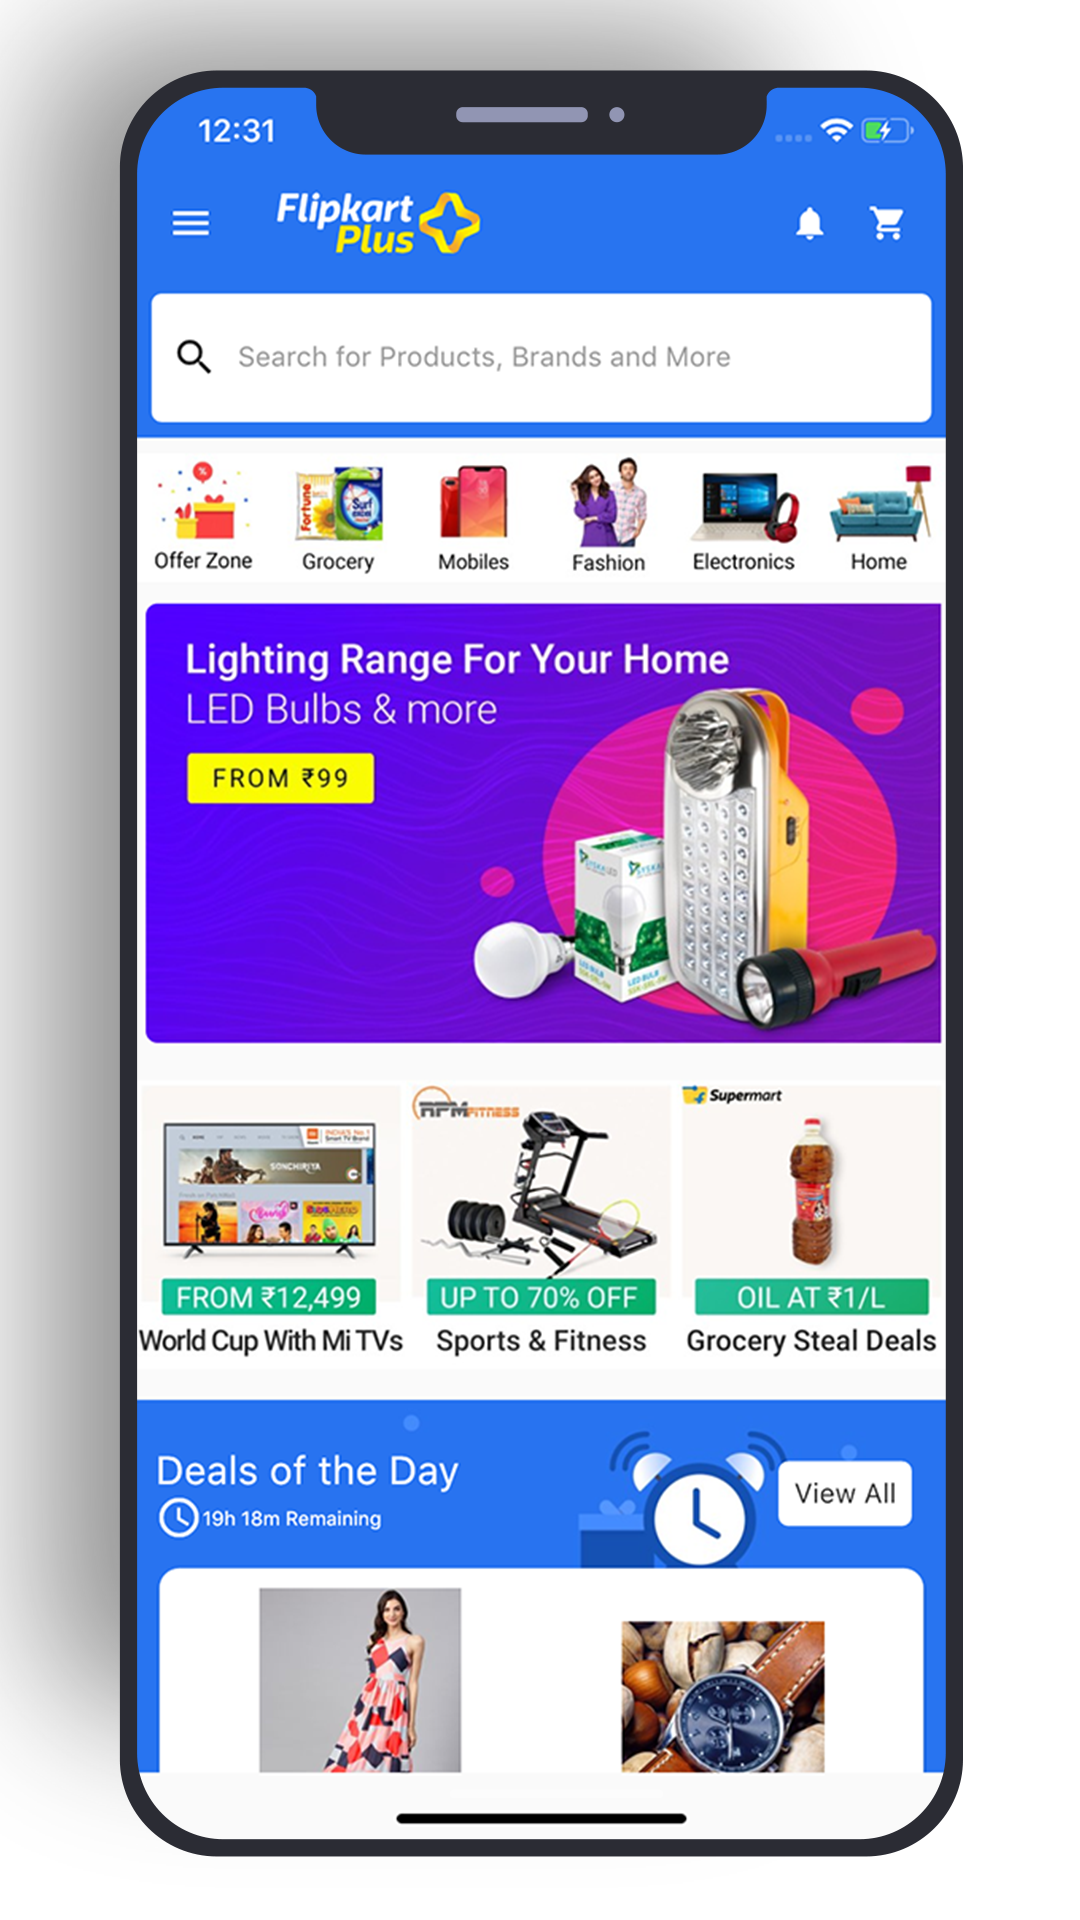
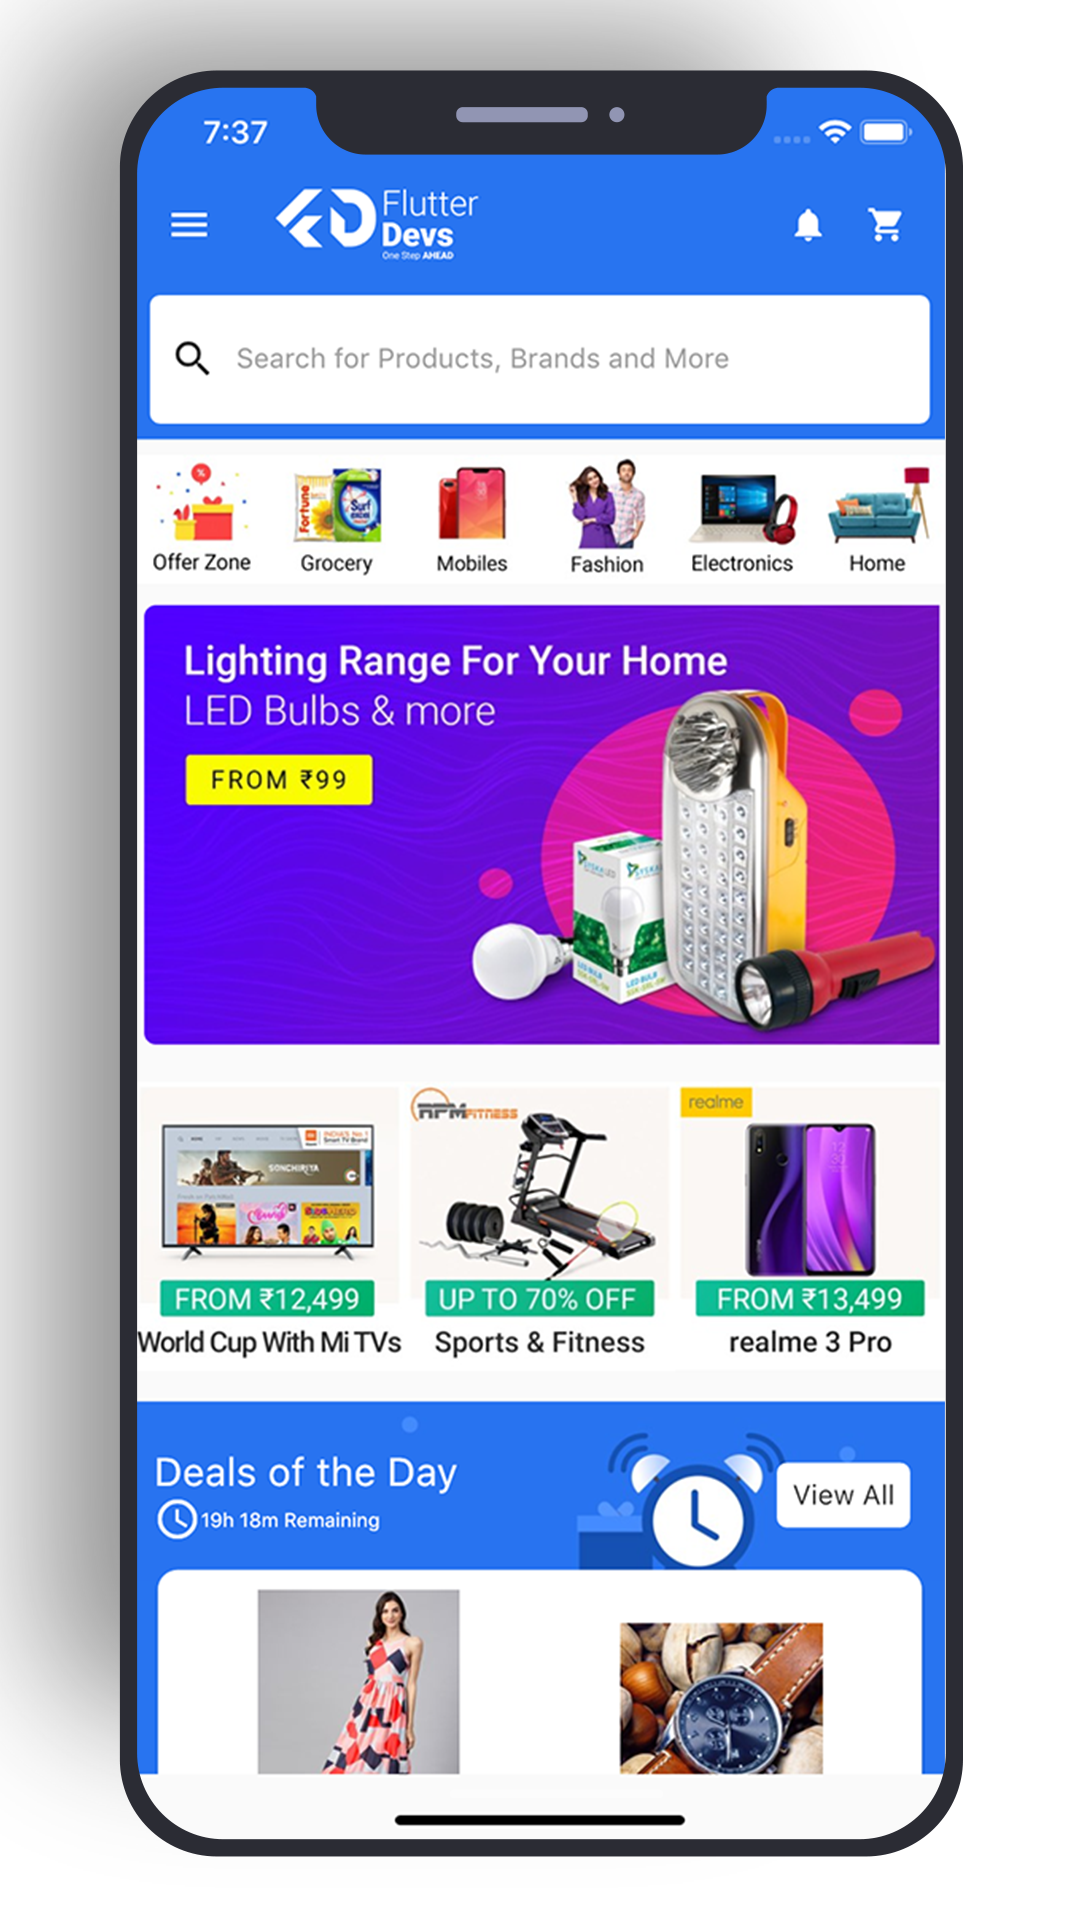
Updated packages

diff --git a/lib/src/ui/widgets/Drawerfile.dart b/lib/src/ui/widgets/Drawerfile.dart
@@ -18,7 +18,7 @@ class _DrawerfileState extends State<Drawerfile> {
 
   addDrawerItem() {
     drawerItemModel = List<DrawerItemModel>();
-    drawerItemModel.add(DrawerItemModel("Flipkart Plus Zone",
+    drawerItemModel.add(DrawerItemModel("Flutter Devs Plus Zone",
         "https://rukminim1.flixcart.com/www/50/50/promos/11/07/2018/70e5346e-fce4-4718-8e56-27be8492faa5.png?q=80"));
     drawerItemModel.add(DrawerItemModel("Electronics",
         "https://rukminim1.flixcart.com/www/50/50/promos/31/10/2016/f7634981-4fd5-4127-9b93-9f57606dccd3.png?q=80"));
@@ -122,11 +122,8 @@ class _DrawerfileState extends State<Drawerfile> {
                 Icons.home,
                 color: Colors.white,
               ),
-              trailing: Image.network(
-                'https://img1a.flixcart.com/www/linchpin/batman-returns/images/logo_lite-cbb357.png',
-                height: size.height / 20,
-                scale: 1,
-              ),
+              trailing:Image.asset("assets/flutter2.png", height: size.height / 20,
+                width: size.width/10,)
             ),
           ),
         ),

diff --git a/lib/src/ui/widgets/FeaturedBrand.dart b/lib/src/ui/widgets/FeaturedBrand.dart
@@ -28,7 +28,7 @@ class _FifthlistState extends State<Fifthlist> {
               child: Text('Sponsored',style: TextStyle(color: Colors.grey),),
             ),
             Image.network(
-              'https://rukminim1.flixcart.com/flap/764/410/image/70708f6b3f39b807.jpg?q=90',
+              'https://rukminim1.flixcart.com/flap/742/398/image/b6516c8b39e45675.jpg?q=90',
               height: MediaQuery.of(context).size.height / 3.5,
               width: MediaQuery.of(context).size.width,
             )

diff --git a/lib/src/ui/widgets/Offers.dart b/lib/src/ui/widgets/Offers.dart
@@ -28,7 +28,7 @@ class _ThirdlistState extends State<Thirdlist> {
           Expanded(
             child: Container(
               child: Image.network(
-                  'https://rukminim1.flixcart.com/flap/267/284/image/46424bd07a6d488d.jpg?q=90'),
+                  'https://rukminim1.flixcart.com/flap/259/276/image/0ae80382c0fd6f32.jpg?q=90'),
             ),
           ),
         ],

diff --git a/lib/src/ui/homePage.dart b/lib/src/ui/homePage.dart
@@ -14,7 +14,7 @@ class _HomePageState extends State<HomePage> {
       appBar: AppBar(
         elevation: 0,
         title: Image.asset(
-          'assets/fk-plus_043837.png',
+          'assets/flutter1.png',
           height: MediaQuery.of(context).size.height / 2,
           width: MediaQuery.of(context).size.width / 4,
         ),
